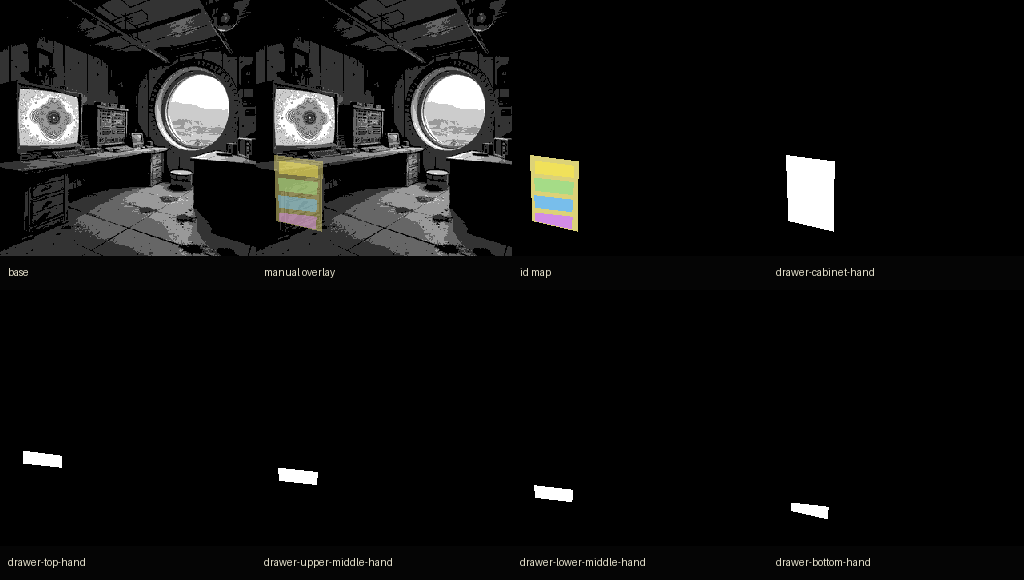
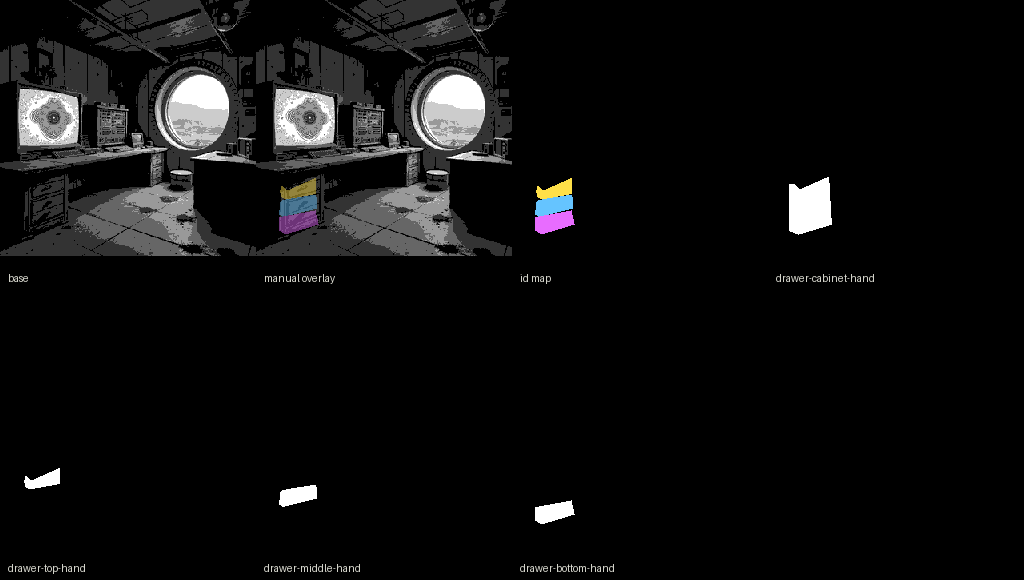
Fix manual drawer annotation target

diff --git a/manual-drawer-annotation/index.html b/manual-drawer-annotation/index.html
@@ -3,7 +3,7 @@
   <head>
     <meta charset="utf-8">
     <meta name="viewport" content="width=device-width, initial-scale=1">
-    <title>Manual Drawer Annotation Reference</title>
+    <title>Lower-left Drawer Manual Reference</title>
     <style>
       :root { color-scheme: dark; --bg: #070808; --ink: #d7d4c7; --muted: #8d8a7d; --line: #2c2c28; }
       * { box-sizing: border-box; }
@@ -20,20 +20,19 @@
   <body>
     <main>
       <header>
-        <h1>Manual Drawer Annotation Reference</h1>
-        <p>Hand reference for drawer cabinet and individual drawer faces. This is not model output.</p>
+        <h1>Lower-left Drawer Manual Reference</h1>
+        <p>Corrected hand reference for the lower-left drawer cabinet. This is not model output and is still a coarse annotation, not final asset-grade segmentation.</p>
       </header>
       <section class="cols">
-        <img src="contact-sheet.png" alt="Manual drawer annotation contact sheet">
+        <img src="contact-sheet.png" alt="Lower-left drawer manual annotation contact sheet">
         <div>
-          <p>Best automatic match against these hand masks is still weak:</p>
+          <p>Automatic candidates remain weak against the corrected target:</p>
           <ul>
-            <li><code>drawer-top-hand</code>: best IoU 0.198</li>
-            <li><code>drawer-upper-middle-hand</code>: best IoU 0.315</li>
-            <li><code>drawer-lower-middle-hand</code>: best IoU 0.180</li>
-            <li><code>drawer-bottom-hand</code>: best IoU 0.160</li>
+            <li><code>drawer-top-hand.png</code>: best IoU 0.415 against <code>sam2-proposal-audition/drawers-roi-4x/candidate-00.png</code></li>
+<li><code>drawer-middle-hand.png</code>: best IoU 0.212 against <code>mask-model-audition/drawers/hq_sam2_core.png</code></li>
+<li><code>drawer-bottom-hand.png</code>: best IoU 0.173 against <code>mask-model-audition/drawers/hq_sam2_core.png</code></li>
           </ul>
-          <p>Interpretation: the current automatic route can find nearby fragments, but it does not recover human-intended drawer faces.</p>
+          <p>Interpretation: blind automatic segmentation does not recover the intended drawer faces reliably. Use guided masks or manual annotation for this class of object.</p>
         </div>
       </section>
     </main>
